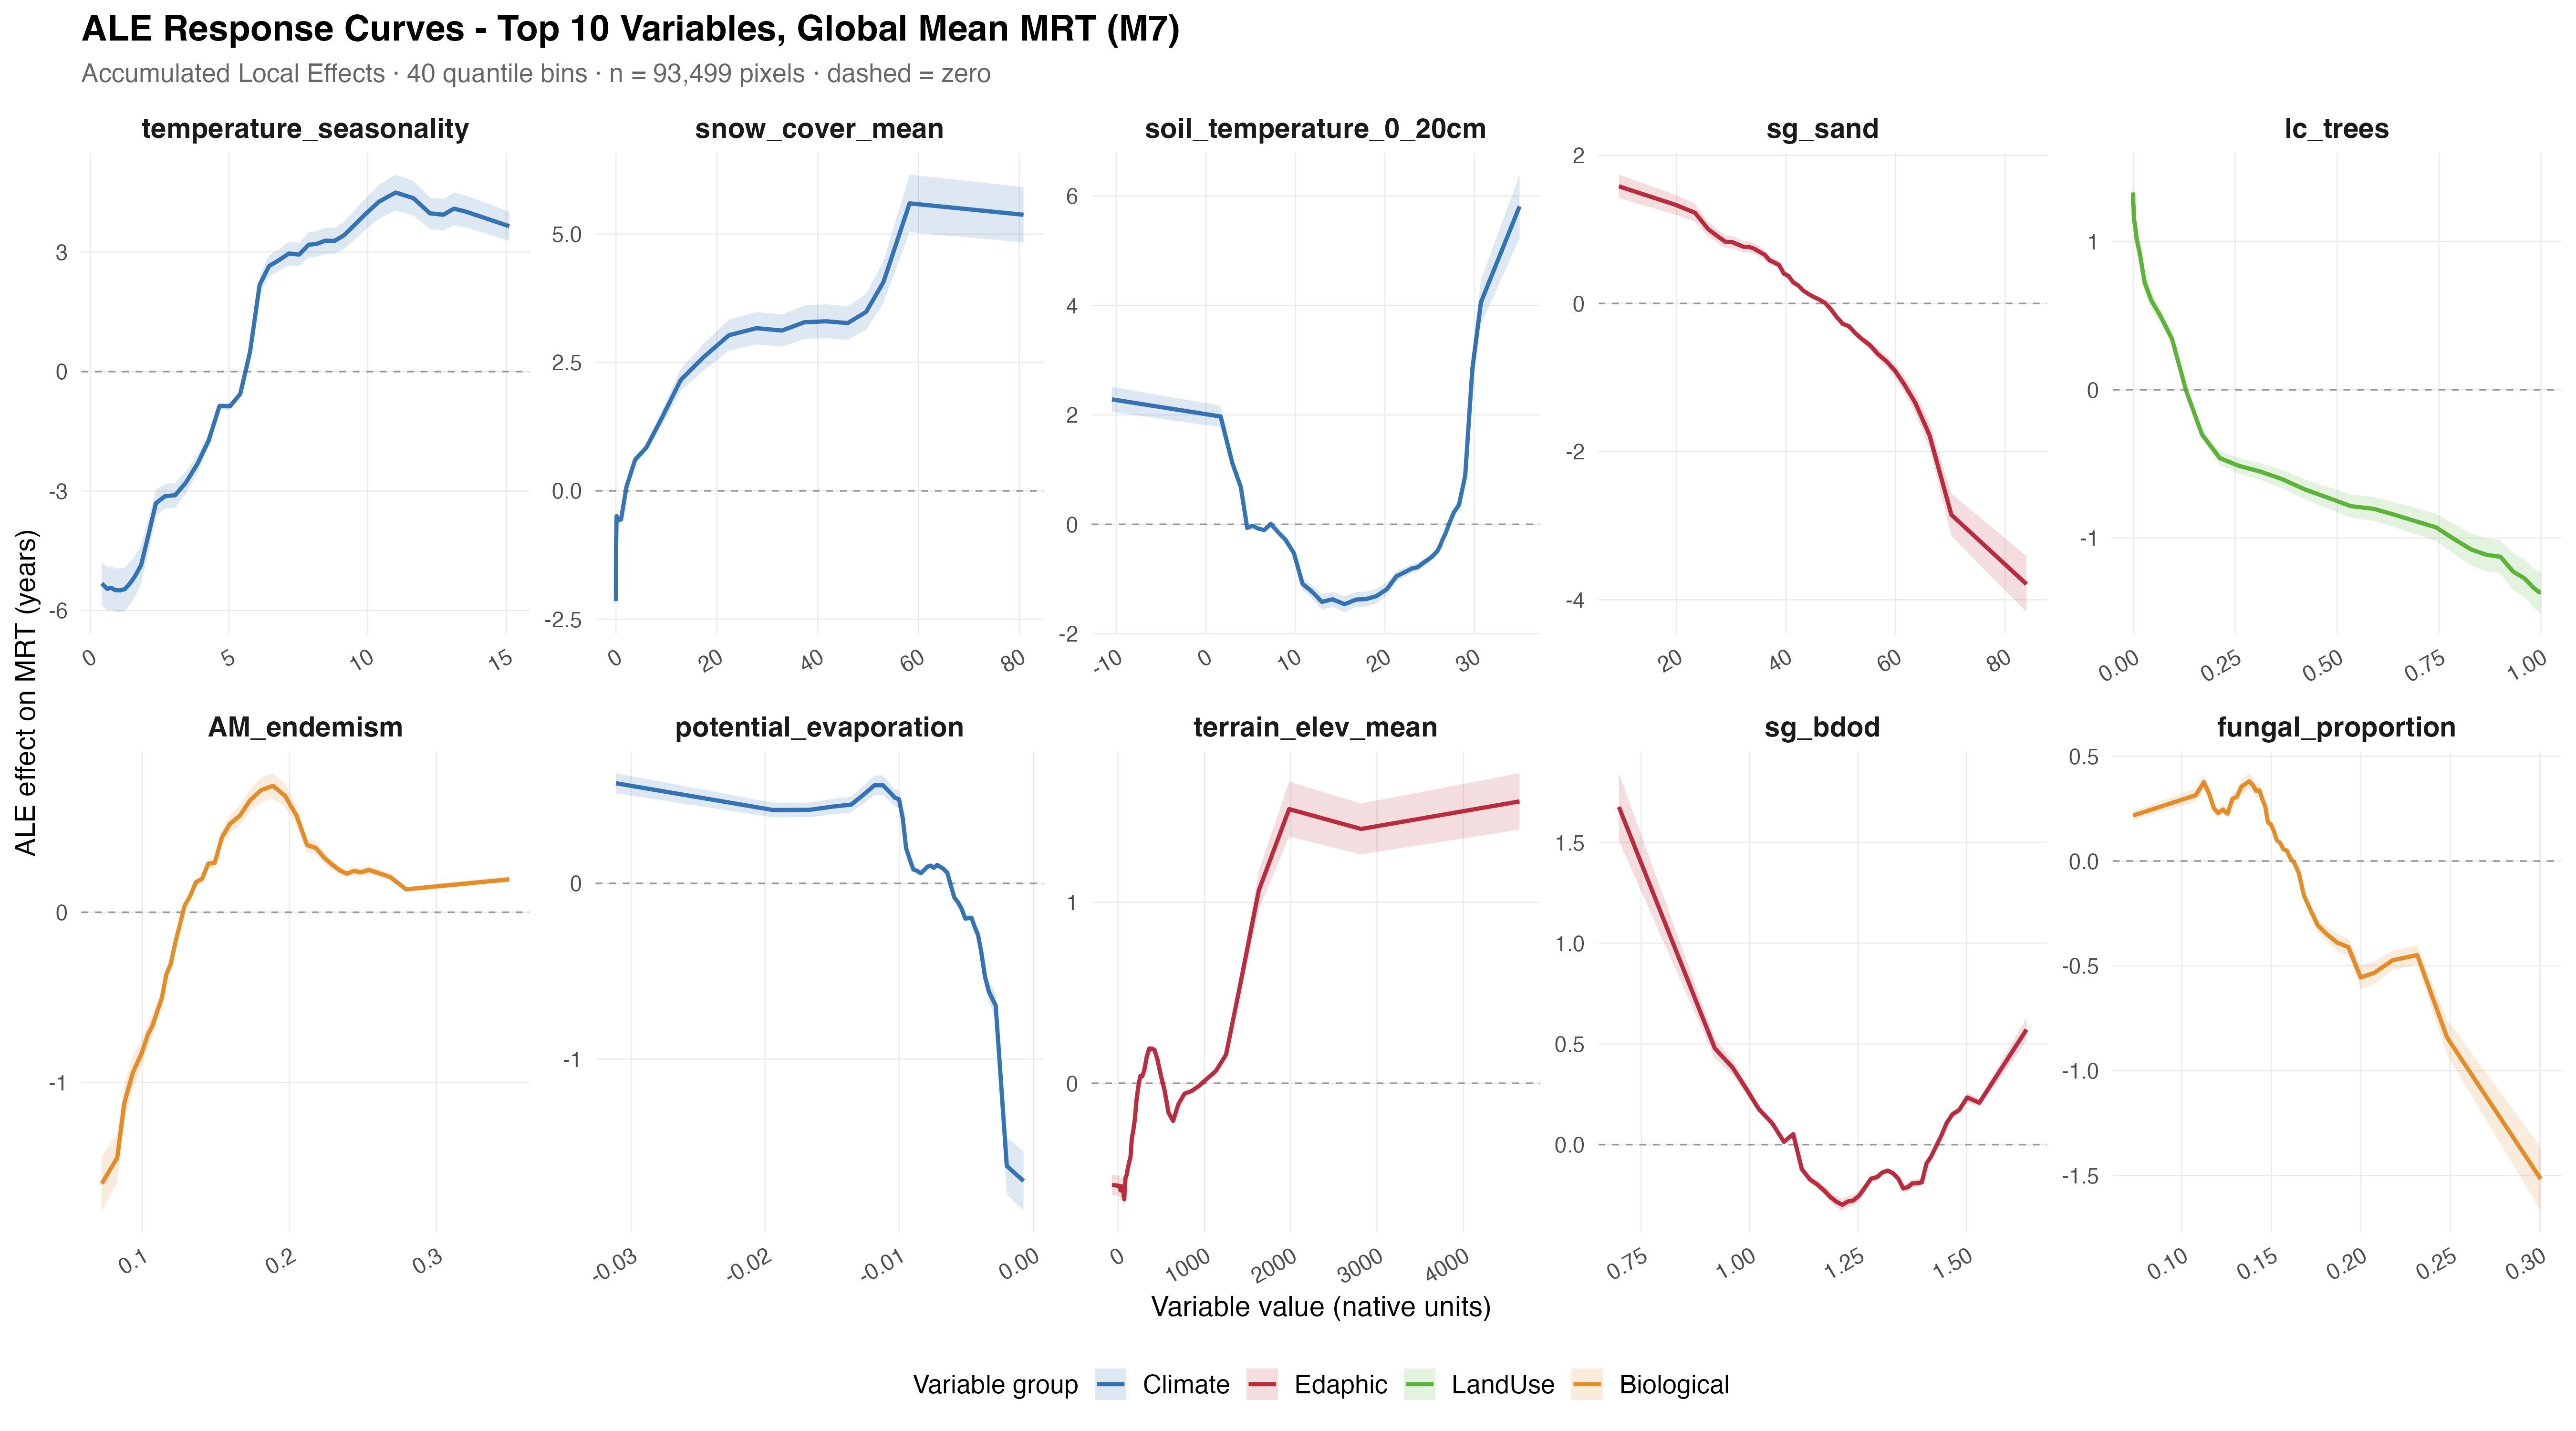
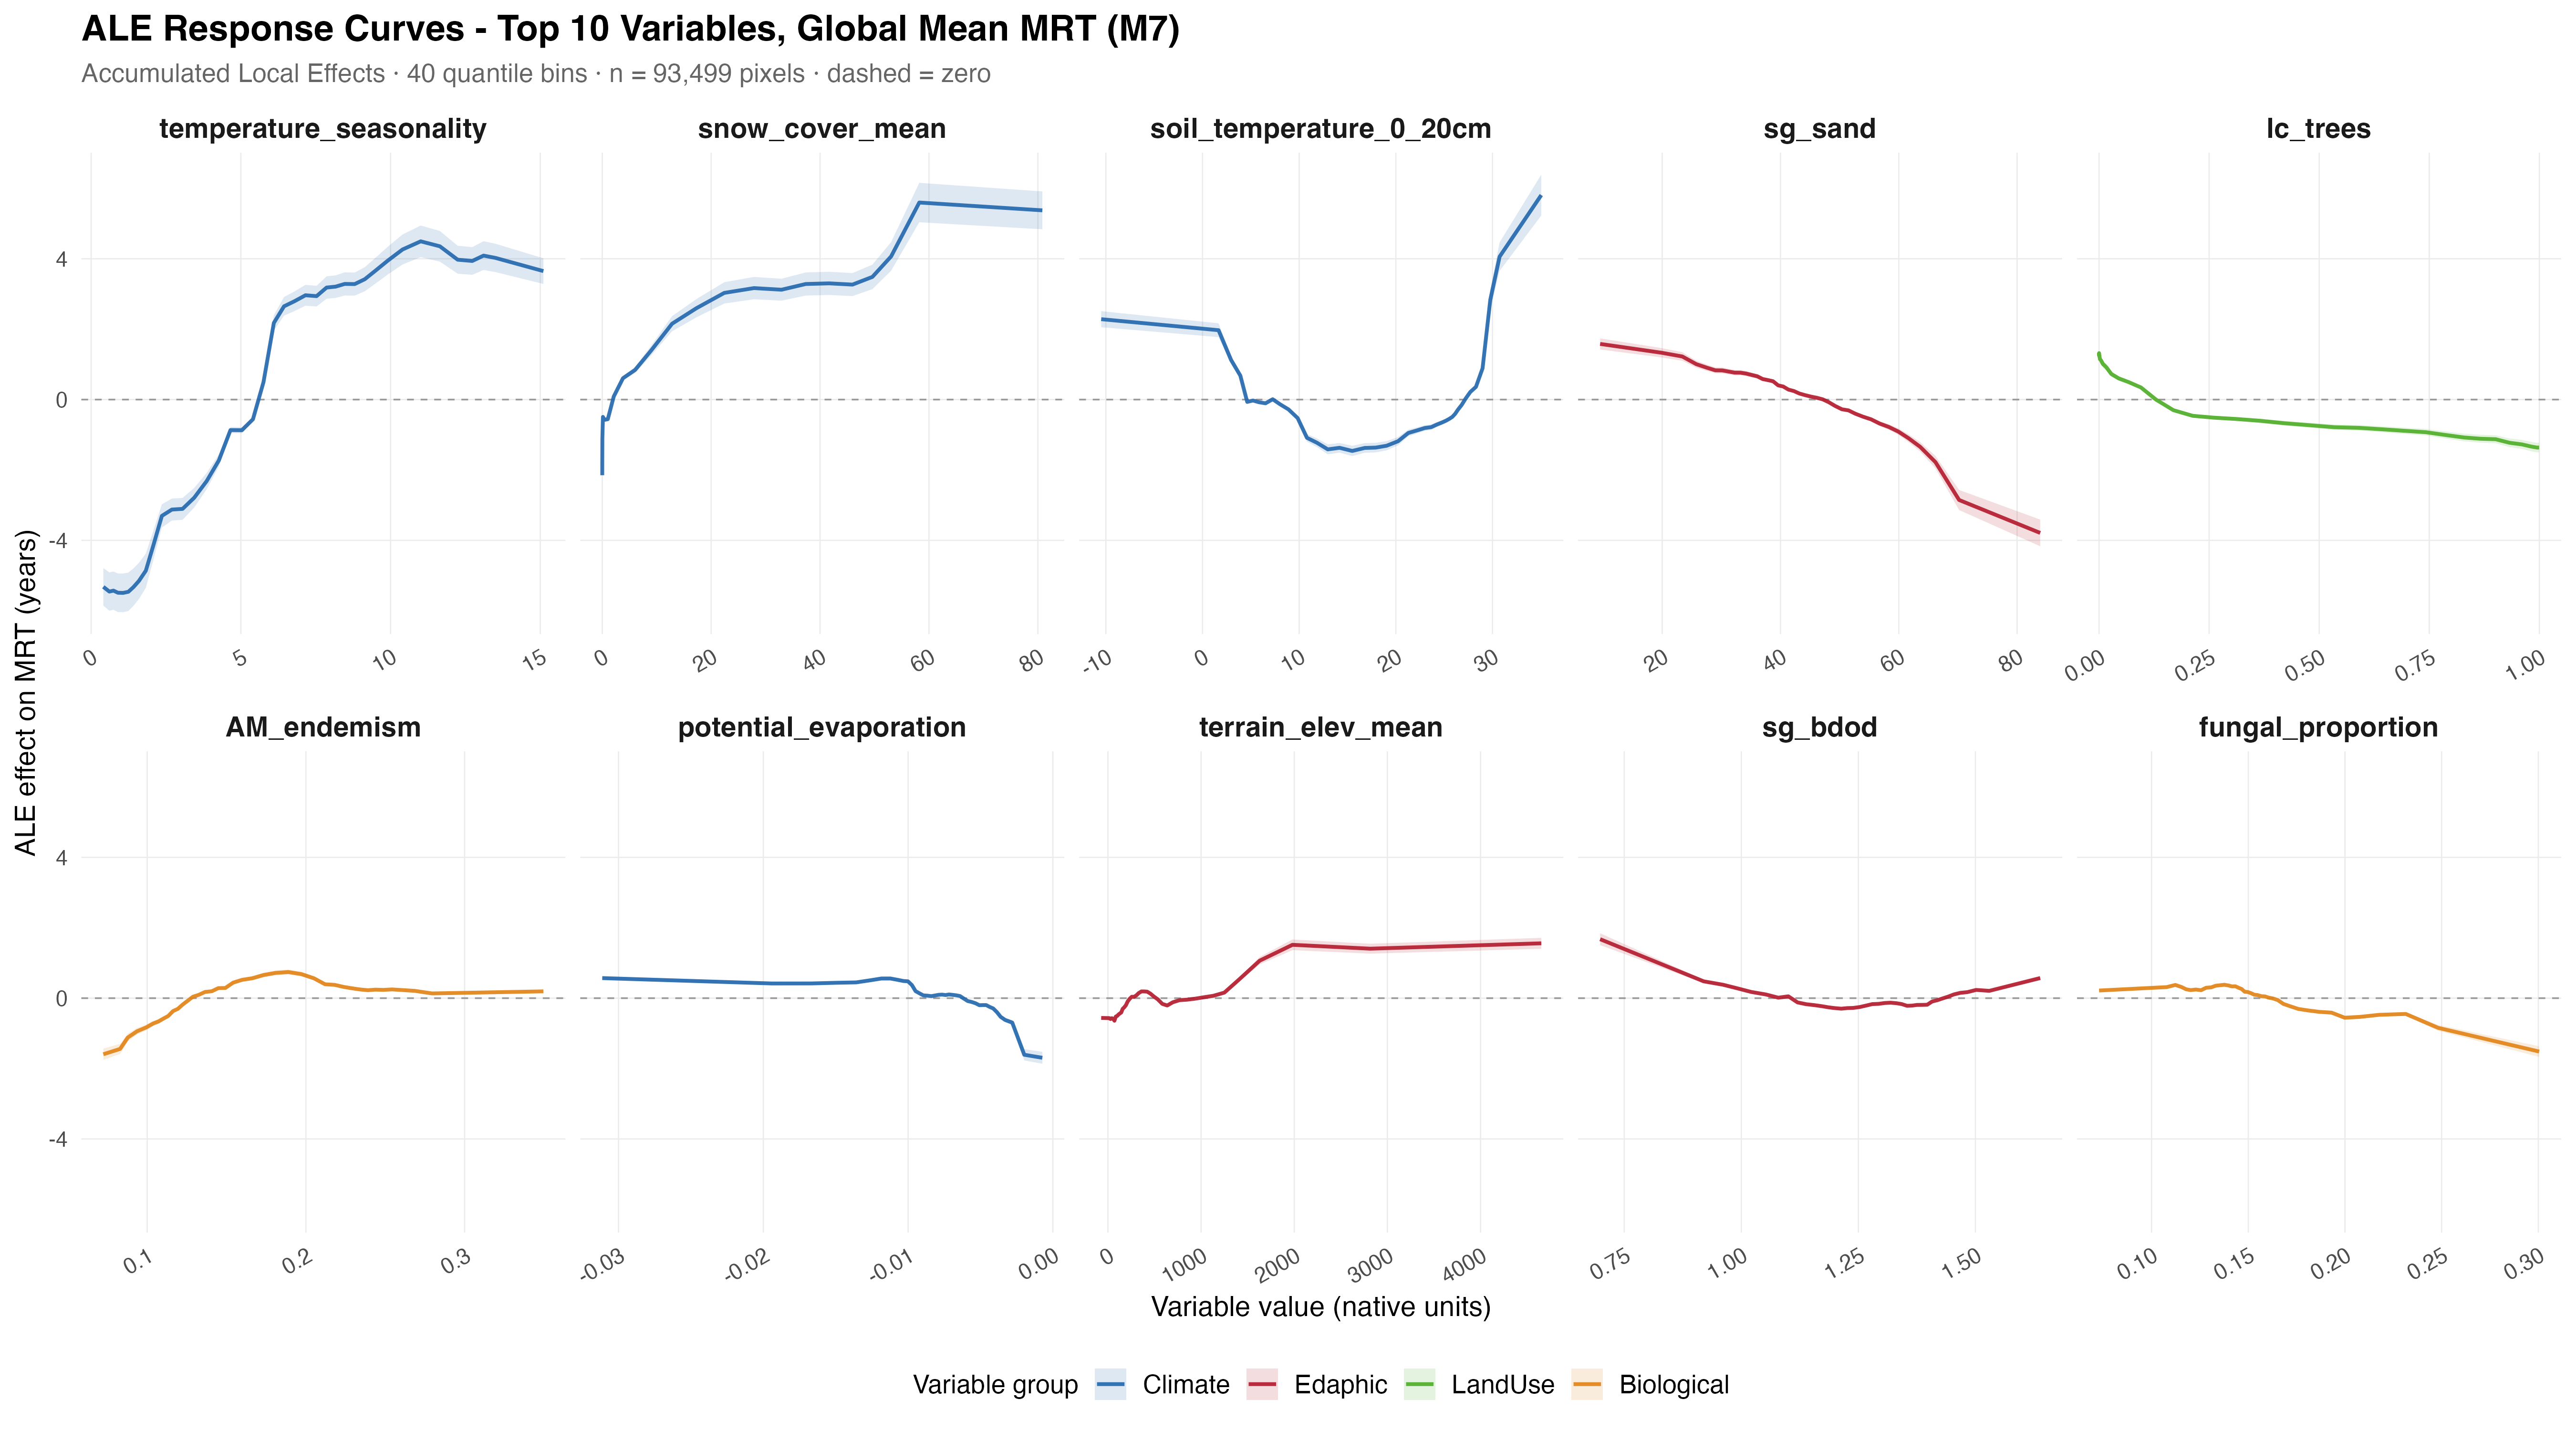
Review round: address text/figure comments (Aleksi, Shoji); integrate Varney 2020
- Abstract reframed to lead with the zonality rediscovery; define edaphic/
  biological inline; observation-based-benchmark clause; litter-quality nod.
- Standardise terminology on transit time (tau); replace stray "MRT"; add
  intro sentence justifying the transit-time definition.
- Moran scatter: per-Koppen within-zone linear fits (+ caption); ALE: shared
  y-axis (scales="free_x") so responsiveness is comparable (+ caption).
- New appendix figure: temperature-tau scatter (Step 22 script, Fig. A5),
  cf. Varney et al. 2020 Fig 3a; apparent Q10 ~ 1.35.
- Integrate Varney et al. 2020 (bib + intro + ESM discussion): our tau-T fit
  (R2=0.06) and Moran's I=0.25 qualify the space-for-time emergent-constraint
  premise; note their respiration-based tau vs our input-based tau.
- Clarity fixes: 16 km range driver, horizon standardisation, zonality-map
  how-to-read, Limitations remaining-variance forward-look.
- Add manuscript/TODO.md tracking deferred data-rework (BNPP input, harvests,
  peatlands), citations, and placeholders.

diff --git a/Global_MRT_code/manuscript/manuscript.tex b/Global_MRT_code/manuscript/manuscript.tex
@@ -55,29 +55,30 @@
 
 \begin{abstract}
 Soil organic carbon (SOC) turnover is commonly modelled as a function of
-climate
-% How about litter quality ? I think that it also plays a role here ? 
-, with the unexplained remainder treated as noise. Yet soils are zonal
-objects,
-%Why they are zonal objects ? Should we open here the role of parent material, etc ? My answer: not so sure, parent material alone is not so much a zonality process (it's one of them) but I get it
-and an emergent property of the soil system (the time carbon
-persists) may share that organisation. Using a global compilation of
-mineral-soil profiles, we estimate steady-state transit times ($\tau$) and ask
-how much of their spatial variation beyond climate is attributable, organised,
-and mappable. On a common, spatially block cross-validated footing, climate
-explains about a third of the predictable variance in $\ln\tau$; an
-order-independent (Shapley) decomposition attributes the rest to edaphic
-(33\,\%), biological (22\,\%), and land-use (10\,\%) context, with climate at
-35\,\%. Edaphic and climatic predictors carry overlapping signals, as
-expected where climate is itself a soil-forming factor, yet the
-beyond-climate residual is spatially organised (Moran's $I=0.25$) rather than
-random. This organisation is led by edaphic factors, with soil biology forming a
-distinct second axis. Marginal-effect analysis reveals ecologically
-interpretable, biome-dependent response shapes. Compared with six CMIP6 Earth
-System Models, our estimated structure is gentler: the models show a
-polar-to-tropical contrast in turnover roughly three times steeper, and disagree among
-themselves by an order of magnitude. We present this as a comparison, and propose the
-zonality of soil-carbon turnover as an interpretive framework for global SOC turnover.
+climate, with the unexplained remainder treated as noise. Yet turnover responds
+to more than climate (litter quality, soil texture and mineralogy, and decomposer
+biology all leave a mark), and soils themselves are organised zonally, their
+forming factors varying in coherent geographic patterns. An emergent property of
+the soil system (the time carbon persists) may therefore share that organisation.
+Using a global compilation of mineral-soil profiles, we estimate steady-state
+transit times ($\tau$) and ask how much of their variation beyond climate is
+attributable, organised, and mappable. On a common, spatially block
+cross-validated footing, climate explains about a third of the predictable
+variance in $\ln\tau$; an order-independent (Shapley) decomposition attributes the
+rest to edaphic context (soil texture, mineralogy and chemistry; 33\,\%),
+biological context (productivity and decomposer community; 22\,\%), and land use
+(10\,\%), with climate at 35\,\%. The beyond-climate residual is not random but
+spatially organised (Moran's $I=0.25$), led by edaphic factors with soil biology
+as a distinct second axis, and marginal-effect analysis resolves it into
+ecologically interpretable, biome-dependent response shapes. Mapping the structure
+recovers a coherent zonal pattern of turnover: a modern, data-intensive analysis
+converging on the long-standing pedological insight that soils, and their emergent
+properties, are zonal. Because this rests on soil observations rather than model
+output, it also offers an observation-based benchmark for Earth System Models:
+against six CMIP6 models our estimated structure is gentler, theirs showing a
+polar-to-tropical contrast in turnover roughly three times steeper and disagreeing
+among themselves by an order of magnitude. We propose the zonality of soil-carbon
+turnover as an interpretive framework for global SOC turnover.
 \end{abstract}
 
 \bigskip
@@ -96,10 +97,19 @@ Earth system models
 Soils hold roughly twice as much carbon as the atmosphere, and the rate at which it
 cycles rather than the stock alone defines the global C balance and the land carbon--climate feedback.
 The relevant quantity is the mean transit time $\tau$, the average time a carbon atom
-spends in the soil \citep{Sierra2017,Sierra2018}. Because the total global stock is so large, even
+spends in the soil from input to loss \citep{Sierra2017,Sierra2018}. We adopt the
+transit-time definition, rather than the several related and often conflated
+residence- or turnover-time measures, because at steady state it is the
+system-level diagnostic of how long carbon persists, and it is the quantity that a
+bulk single-pool inversion of stock over input actually recovers. Because the total global stock is so large, even
 modest shifts in $\tau$ over large areas have a relevant effect on the global carbon balance. What
 controls $\tau$, and how it varies geographically, impacts directly whether soils
-keep buffering anthropogenic emissions or begin to amplify them.
+keep buffering anthropogenic emissions or begin to amplify them. Constraining that
+geographic variation observationally is an active goal: recent work exploits the
+present-day spatial relationship between $\tau$ and temperature as an emergent
+constraint on the warming response of soil carbon \citep{Varney2020}. Such
+approaches rest on the premise that the spatial $\tau$ gradient is predominantly
+thermal, a premise our beyond-climate analysis lets us examine directly.
 
 \paragraph{The classical paradigm: chemistry and constants.}
 Since the foundational models of the 1970s--1990s
@@ -209,7 +219,8 @@ estimate and drop out at the mean-transit-time step
 as having missing input data in Sect.~\ref{sec:results_data}.
 
 Horizon-level data were standardised to a 0--20~cm depth interval by
-depth-weighted averaging. For each unique soil profile (identified by
+depth-weighted averaging, applied to each profile individually rather than
+stratified by pedological class. For each unique soil profile (identified by
 site~ID), we computed the overlap of each recorded horizon with the
 0--20~cm target interval and calculated a thickness-weighted mean for
 seven soil variables: organic carbon, total nitrogen, pH~(H$_2$O), clay
@@ -225,7 +236,7 @@ were carried forward as the most common value across horizons.
 After depth standardisation, the dataset contained 381\,541 profiles from
 47~source databases spanning 78\textdegree S to 78\textdegree N. We applied
 a series of quality-control filters to remove records likely to introduce
-systematic bias into the MRT calculation. First, 83\,206 profiles
+systematic bias into the transit-time calculation. First, 83\,206 profiles
 (21.8\,\%) reported OC~$=$~0~g\,kg$^{-1}$, which in these source
 databases typically encodes missing data rather than a true measurement; these values were set
 to \texttt{NA} and the affected profiles were removed when no valid OC
@@ -278,7 +289,10 @@ converting the product $(\text{g\,kg}^{-1})(\text{g\,cm}^{-3})(\text{cm})$
 into a mass per unit area, g\,C\,m$^{-2}$.
 
 Carbon input to soil was estimated as the belowground fraction of net
-primary productivity (BNPP). We used MODIS MOD17A3 annual NPP
+primary productivity (BNPP). 
+%Aleksi: For me this raises questions. How about branches. In most cases those are left on site, unless used for bioenergy. Are we now ignoring aboveground litter fraction ? And we assume that all NPP belowground is litter ? 
+(maybe this is okay assumption?)
+We used MODIS MOD17A3 annual NPP
 \citep[2001--2020;][]{Running2015} extracted at each profile location,
 applying the MODIS scale factor
 ($\text{NPP}_\text{true} = \text{NPP}_\text{raw} / 10$;
@@ -309,6 +323,9 @@ Table~\ref{tab:allocation}), and $\tau$ was computed as the ratio of SOC stock t
 $\tau < 1$~year or $> 1000$~years, or with missing, negative, or
 infinite values were excluded. The upper and lower 1\% tails of the
 remaining distribution were removed prior to model fitting.
+
+ %Aleksi: ow about harvests ? Most of the growth of forests is harvested and taken to mills in countries like Finland & Sweden: We would need layer of managed forests, like proxy based on this:  https://earthenginepartners.appspot.com/science-2013-global-forest And. then estimates of the fraction of NPP that is annually taken out of the system
+% Aleksi: we could have biome spoecific values here if needed
 
 % -----------------------------------------------------------------------------
 \subsection{Predictor variables}
@@ -342,7 +359,7 @@ cells it covers (a count of classes, not an average, since the variable
 is categorical).
 
 \subsubsection{Edaphic}
-
+% Aleksi: How about excluding peatlands? I think that it would be important ?  At least from the analysis, maybe maps can be as they are. But if we have obs from peatlands, those may distort our interpration ? (there are some global peat maps)
 Soil properties were obtained from SoilGrids 250\,m v2.0
 \citep{Poggio2021}, depth-weighted to 0--20~cm: clay content, sand
 content, bulk density, coarse fragment volume, pH~(H$_2$O), cation
@@ -704,13 +721,13 @@ Observation dates ranged from 1900 to~2024,
 with the majority (79\,\%) falling between~1980 and~2020. Of the
 198\,382 profiles, 38\,292 (19.3\,\%) had measured bulk density, 133\,557
 (67.3\,\%) received RF-predicted values, and 21\,830 (11.0\,\%) were
-gap-filled with SoilGrids. The steady-state MRT calculation
+gap-filled with SoilGrids. The steady-state transit-time calculation
 (Sect.~\ref{sec:mtt_calc}) produced valid estimates for 185\,601 profiles
 (93.6\,\%), with the remainder flagged as infinite ($n = 719$), missing
 input data ($n = 9\,486$), or outside the plausible range
 ($<$~1~or~$>$~1\,000~yr; $n = 2\,576$). For model fitting, we removed
-the 1st and 99th MRT percentiles, retaining 181\,887 profiles
-(MRT range 1.9--143.9~yr). Spatial coverage spanned
+the 1st and 99th $\tau$ percentiles, retaining 181\,887 profiles
+($\tau$ range 1.9--143.9~yr). Spatial coverage spanned
 78\textdegree S--78\textdegree N and 172\textdegree W--176\textdegree E
 (Fig.~\ref{fig:sampling}).
 
@@ -768,8 +785,15 @@ random arrangement would produce. Most of the residual's point-to-point variance
 is nonetheless short-range and unstructured. Its empirical semivariogram (Sect.~\ref{sec:mapscale}; Fig.~\ref{fig:noisefloor}) has a high nugget (about
 56\,\% of the total sill is already present at the shortest separations, i.e.\
 variance that the spatial coordinates do not resolve) and a short correlation
-range ($\approx16$~km, the lag beyond which the semivariance stops rising), so
-little point-level structure survives past a few tens of kilometres. The
+range ($\approx16$~km, the lag beyond which the semivariance stops rising),
+so little point-level structure survives past a few tens of kilometres. This
+range should not be read as intrinsic soil autocorrelation, which for many soil
+properties operates at metres to tens of metres; it is instead inherited from the
+gridded predictor fields that drive the model. Our covariates (MODIS-derived NPP,
+climate reanalysis, and the SoilGrids products) are themselves smooth at scales of
+hundreds of metres to kilometres, so the residual can only express structure that
+those inputs resolve, and the $\approx16$~km range reflects the effective
+resolution of the predictor stack rather than a property of the soils sampled. The
 organised signal is therefore a meso-scale property: the agreement between the
 mapped and the observed residual roughly doubles from the noisy native pixel
 ($R^2\approx0.11$) to $\approx0.22$ at 1--2\textdegree{} and then plateaus
@@ -778,16 +802,17 @@ map it below.
 
 \begin{figure}[H]\centering
 \includegraphics[width=0.6\textwidth]{../plots/step_13c_commonality/13e_moran_scatter.png}
-\caption{\textbf{Spatial organisation of the beyond-climate residual.} How to read it: each point is a 2\textdegree{} block; the horizontal axis is that block's mean beyond-climate residual (observed minus climate-only prediction), and the vertical axis is the average residual of its neighbouring blocks. A positive slope means blocks resemble their neighbours more than a random arrangement would give (spatial clustering) and the slope is Moran's $I=0.25$ ($p\ll0.001$). A flat, shapeless cloud would indicate no spatial organisation. Points are coloured by each block's modal coarse K\"oppen zone (A tropical, B arid, C temperate, D cold, E polar); the beyond-climate autocorrelation is broadly distributed across zones rather than confined to one.}
+\caption{\textbf{Spatial organisation of the beyond-climate residual.}
+How to read it: each point is a 2\textdegree{} block; the horizontal axis is that block's mean beyond-climate residual (observed minus climate-only prediction), and the vertical axis is the average residual of its neighbouring blocks. A positive slope means blocks resemble their neighbours more than a random arrangement would give (spatial clustering) and the slope is Moran's $I=0.25$ ($p\ll0.001$). A flat, shapeless cloud would indicate no spatial organisation. Points are coloured by each block's modal coarse K\"oppen zone (A tropical, B arid, C temperate, D cold, E polar), and the thin coloured lines are within-zone linear fits. The beyond-climate autocorrelation is present across zones rather than confined to one, but not uniformly: the within-zone slope is steepest in tropical and arid blocks, shallower in temperate and cold ones, and essentially flat in the (few) polar blocks.}
 \label{fig:moran}
 \end{figure}
 
-\subsection{Global distribution of predicted MRT}
+\subsection{Global distribution of predicted $\tau$}
 \label{sec:results_map}
 % -----------------------------------------------------------------------------
 
 The full-model (M7) prediction, generated at 0.1\textdegree{} resolution,
-covers ${\sim}$942\,000 land pixels and yields a global mean MRT of 23.3~yr
+covers ${\sim}$942\,000 land pixels and yields a global mean $\tau$ of 23.3~yr
 (median 22.4~yr; Fig.~\ref{fig:global_mrt}). Predicted values span
 3.7--72.0~yr across the global domain. A first-order latitudinal gradient is visible in
 the predicted-$\tau$ map (Fig.~\ref{fig:global_mrt}), consistent with temperature
@@ -832,17 +857,17 @@ Consistent with its near-zero unique variance, land use produces the largest loc
 
 \begin{figure}[H]\centering
 \includegraphics[width=0.82\textwidth]{../plots/step_15b_zonality/zonality_map_dual_symmetric.png}
-\caption{\PH{[draft figure --- to refine together]}~ \textbf{Zonality map (symmetric).} (a)~Abiotic and (b)~biological modulation, each relative to climate (log-ratio of model predictions), at meso (2\textdegree) scale. Red/green~=~longer turnover, blue/purple~=~shorter.}
+\caption{\PH{[draft figure --- to refine together]}~ \textbf{Zonality map (symmetric).} (a)~Abiotic and (b)~biological modulation, each relative to climate, at meso (2\textdegree) scale. How to read it: each panel maps how much longer or shorter turnover is than climate alone would predict, expressed as the log-ratio of the full-model prediction to the climate-only prediction in each 2\textdegree{} block. Values near zero mean climate already accounts for the local turnover; departures mark where edaphic (a) or biological (b) context lengthens or shortens turnover beyond what climate explains. Red/green~=~longer turnover, blue/purple~=~shorter.}
 \label{fig:zonality}
 \end{figure}
 
 % -----------------------------------------------------------------------------
-\subsection{Marginal effects on MRT}
+\subsection{Marginal effects on $\tau$}
 \label{sec:results_ale}
 % -----------------------------------------------------------------------------
 
 Accumulated Local Effects (ALE) analysis quantified the marginal
-response of MRT to each continuous predictor across its observed range
+response of $\tau$ to each continuous predictor across its observed range
 (Fig.~\ref{fig:ale_top10}). The three largest ALE effect ranges again
 belonged to climate variables:temperature seasonality (10.0~yr),
 snow cover (7.7~yr), and soil temperature (7.3~yr). Among non-climate
@@ -855,7 +880,15 @@ top ten.
 
 \begin{figure}[H]\centering
 \includegraphics[width=1.0\textwidth]{../plots/step_18_sensitivity/18D_ALE_top10_MRT.png}
-\caption{\textbf{ALE response curves} for the ten most responsive predictors of $\tau$ (full model, M7).}
+\caption{\textbf{ALE response curves} for the ten most responsive predictors of
+$\tau$ (full model, M7). Panels are ordered by decreasing ALE range (the vertical
+span of each curve, i.e.\ how much $\tau$ shifts across the predictor's observed
+range), so the most influential predictors appear first; the leaders are climatic
+(temperature seasonality, snow cover, and soil temperature), with sand the
+strongest edaphic response. The $y$-axis is shared across panels, so the vertical span
+of each curve is directly comparable: a flatter curve means a predictor moves
+$\tau$ less. The $x$-axis is in each predictor's native units and therefore
+differs between panels.}
 \label{fig:ale_top10}
 \end{figure}
 
@@ -866,9 +899,9 @@ climbs sharply between roughly 50 and 60\,\% snow-cover fraction), and soil
 temperature is U-shaped (a shape we revisit in the Discussion, where the
 high-temperature upturn may partly reflect drier conditions in the hottest soils);
 sand declines monotonically
-(clay-rich to sand-rich shortens MRT by nearly 5~yr), bulk density is threshold-like
+(clay-rich to sand-rich shortens $\tau$ by nearly 5~yr), bulk density is threshold-like
 below $\sim$1~g\,cm$^{-3}$, pH is a rising inverted-U peaking near 7.5--8, fungal
-proportion drops MRT above a $\sim$0.2 biomass fraction, and AM endemism is inverted-U.
+proportion drops $\tau$ above a $\sim$0.2 biomass fraction, and AM endemism is inverted-U.
 The mechanistic reading of these shapes is taken up in the Discussion.
 
 Resolved by latitude band (Fig.~\ref{fig:ale_latband}), the
@@ -1051,7 +1084,22 @@ structure (which our analysis associates with edaphic, biological, and land-use
 context) as one place where soil-carbon representations might be examined, with the
 candidate functional shapes suggested here as a possible starting point.
 
-
+Our finding also speaks to a prominent use of the spatial $\tau$ field.
+\citet{Varney2020} constrain the warming sensitivity of soil-carbon turnover by
+treating the present-day spatial relationship between $\tau$ and temperature as a
+proxy for its temporal response, an emergent constraint that implies an effective
+$Q_{10}\approx2.5$ and halves the CMIP uncertainty in soil-carbon loss under
+2\textdegree{}C of warming. That approach presumes the spatial $\tau$--temperature
+gradient is largely thermal. Our decomposition qualifies this reading: temperature
+alone explains little of the point-level variation in $\tau$
+(Fig.~\ref{fig:tempscatter}, $R^2=0.06$), and the beyond-climate residual is
+spatially organised rather than random (Moran's $I=0.25$), carrying edaphic and
+biological structure that a $\tau$--temperature curve would absorb into an apparent
+thermal sensitivity. Space-for-time constraints on $\tau$ might therefore be
+sharpened by first accounting for this non-thermal zonal structure. We note also
+that \citeauthor{Varney2020} define turnover through respiration
+($\tau=C_s/R_h$) rather than through carbon input as we do, so the two estimates are
+related but not identical.
 
 \paragraph{Limitations.}
 The steady-state assumption is a simplification; we rely on non-equilibrium errors
@@ -1063,8 +1111,18 @@ Predictor correlations among climate, edaphic, and land-use variables are inhere
 the observational design and cannot be fully disentangled without experimental or
 temporal replication. Finally, depth and pool-definition differences complicate the
 CMIP6 comparison, which is why we compare relative structure rather than absolute
-magnitude. These motivate time-resolved transit times, manipulative experiments, and
-targeted sampling in undersampled regions.
+magnitude. A large fraction of the point-to-point variance in $\tau$ also stays
+unpredictable at this resolution (Sect.~\ref{sec:mapscale}; Fig.~\ref{fig:noisefloor}):
+the beyond-climate signal we recover is a meso-scale, spatially organised component,
+not a pixel-level reconstruction. Part of that residual is measurement and
+steady-state noise, but part likely reflects fine-scale controls our global
+predictors cannot resolve, chiefly the quantity and quality of carbon inputs.
+Our input term is a belowground-NPP proxy that omits aboveground litter, litter
+chemistry, and management removals (harvest, residue export), and these are plausibly
+first-order at the local scale; predictors closer to the actual input flux, together
+with denser and repeated sampling, would be the most direct route to reducing the
+unexplained variance. These motivate time-resolved transit times, manipulative
+experiments, and targeted sampling in undersampled regions.
 
 \paragraph{Implications: a biome-aware, tractable parameterisation.}
 The structure we describe need not be operationalised by adding mechanistic
@@ -1233,6 +1291,12 @@ The authors declare no competing interests.
 \includegraphics[width=0.95\textwidth]{../plots/appendix/scale_noisefloor.png}
 \caption{\textbf{Scale spectrum and noise floor.} (a)~Residual variogram (nugget/sill~$\approx$0.56, range~$\approx$16~km); (b)~coarse organisation grows with block size.}
 \label{fig:noisefloor}
+\end{figure}
+
+\begin{figure}[H]\centering
+\includegraphics[width=0.8\textwidth]{../plots/appendix/22_temperature_tau_scatter.png}
+\caption{\textbf{Transit time versus temperature.} Observed $\tau$ (log scale) against mean annual air temperature for the QC-passed profiles, coloured by coarse K\"oppen zone, with an overall loess trend (black). Transit time declines with warming, from ${\sim}35$~yr in the coldest soils to a minimum of ${\sim}13$~yr near 22--23\textdegree{}C, corresponding to an apparent $Q_{10}$ of bulk turnover of about 1.35 (log-linear fit, $R^2=0.06$). The upturn at the warmest end is consistent with the U-shaped soil-temperature response in Fig.~\ref{fig:ale_top10} (hot, dry soils turning over more slowly). This single-predictor view is shown for comparability with earlier compilations \citep[e.g.][]{Varney2020}; the weak fit ($R^2=0.06$) underscores that temperature alone explains little of the point-level variation in $\tau$.}
+\label{fig:tempscatter}
 \end{figure}
 
 \begin{figure}[H]\centering

diff --git a/Global_MRT_code/manuscript/TODO.md b/Global_MRT_code/manuscript/TODO.md
@@ -1,0 +1,103 @@
+# Manuscript TODO
+
+Last updated: 2026-07-03. Covers everything outstanding **except** Bucket 2
+(reviewer figure/caption tweaks), which is being handled this session. Update as
+items close.
+
+---
+
+## 1. Reviewer comments needing data rework (Bucket 3)
+
+**To tackle next week (week of 2026-07-06).**
+
+These came up independently from more than one co-author, so they are not optional.
+
+**Framing (from 2026-07-03 discussion).** Steady-state tau can be written from the
+input side (tau = Cs/input, what we do, input ~ BNPP) or the output side
+(tau = Cs/Rh, respiration, what Varney et al. 2020 do); same quantity, different
+observable, different error structure. Useful context for the limitation, but it
+positions the choice rather than resolving the critique. Key point: the paper's
+claim is about *relative/spatial* structure (zonality), so what matters is whether
+an input error is spatially smooth (mostly rescales magnitude, fairly harmless) or
+spatially structured (can masquerade as zonality). On that test the three comments
+are NOT equal weight:
+  - Aboveground litter + litter quality -> largely magnitude / steady-state
+    caveats; probably a careful paragraph, not a re-run.
+  - **Harvest removals -> the one with teeth**: concentrated in managed
+    boreal/temperate forests, so it is spatially organised and overlaps the
+    beyond-climate signal. This likely warrants an actual managed-forest
+    sensitivity test, not just prose. (Open question to settle: do the
+    literature BNPP fractions themselves carry enough biome-structured error to
+    matter even for the "smooth" cases?)
+
+- [ ] **Carbon input = belowground NPP only.** Aleksi (twice) and Shoji both
+  question using the belowground fraction of NPP as the soil input term. Open
+  points: aboveground litter is ignored; litter *quality* / chemistry is not
+  represented; the implicit assumption that all belowground NPP becomes litter.
+  Action: write a defensible justification paragraph in Methods, and/or revise
+  the input term. (manuscript.tex, inline comment near BNPP definition.)
+- [ ] **Harvest removals.** In managed forests (e.g. Finland, Sweden) a large
+  fraction of NPP is exported to mills and never enters the soil. Aleksi suggests
+  a managed-forest layer (Hansen Global Forest Change,
+  https://earthenginepartners.appspot.com/science-2013-global-forest) and a
+  fraction-of-NPP-removed term, possibly biome-specific. Requires new input layer
+  and a pipeline re-run.
+- [ ] **Peatland exclusion.** Peat observations may distort interpretation.
+  Filter peat sites from the training data (global peat maps exist); the maps
+  themselves can stay as is. Requires re-running the pipeline on filtered obs.
+
+## 2. Manuscript placeholders to fill
+
+- [ ] **Conclusions section** is a stub (four bullet drafts exist) and needs to
+  be written into prose.
+- [ ] **Zonality map (Fig.)** flagged "draft figure --- to refine together";
+  finalise design.
+- [ ] **Authors / affiliations:** author list slot 3, affiliations 2 and 3.
+- [ ] **Data / code availability DOIs** and repository link.
+- [ ] **Acknowledgements** and **Author contributions (CRediT)**.
+- [ ] **Figure in-panel labels still say "MRT".** After standardising the text on
+  transit time (tau), figure titles/axes baked into the PNGs are now inconsistent
+  (e.g. step_18 ALE panels: "Global Mean MRT", "ALE effect on MRT (years)"; likely
+  the map figures too). Sweep the plotting scripts' labels to transit time / tau
+  and regenerate. (Deferred to avoid repeated heavy re-runs; batch with the next
+  pipeline pass.)
+
+## 3. Missing citations (\PH{[cite: ...]})
+
+Grouped by location:
+
+- [ ] Intro, classical models: Jenkinson; Parton/CENTURY; RothC lineage.
+- [ ] Intro, ESM inheritance: Todd-Brown 2013; Wieder 2013.
+- [ ] Intro, persistence-as-ecosystem-property: Kleber 2007/2021; Lehmann &
+  Kleber 2015; Kallenbach 2016; Cotrufo (MEMS); Averill 2014.
+- [ ] Discussion, edaphic mechanisms: Six 2002; Hassink 1997; Rasmussen 2018;
+  Kleber 2007.
+- [ ] Discussion, pH / microbial: Rousk 2010; Malik 2018; Fierer 2006.
+- [ ] Discussion, geochemical (Ca-OM): Rowley 2018; Rasmussen 2018; Rothe 2019.
+- [ ] Discussion, mycorrhizal / high-latitude: Averill 2014; Clemmensen 2013;
+  Tedersoo 2014; Steidinger 2019.
+
+## 4. Decisions / notes
+
+- [ ] **Title.** Body now standardised on mean transit time (tau); title still
+  reads "mean residence time." Lorenzo is fine with this for now; revisit only if
+  a reviewer flags the mismatch.
+
+---
+
+### Addressed this session (for reference)
+- Abstract reframed to lead with the zonality rediscovery; edaphic/biological
+  defined inline; litter-quality nod; observation-based-benchmark clause.
+- Terminology standardised on transit time tau; the 10 stray "MRT" replaced;
+  intro sentence added justifying transit time (answers Shoji).
+- Zonality-map caption "how to read it"; horizon-standardisation clarification;
+  Limitations forward-look on unpredictable variance.
+- Bucket 2 (complete): Moran per-Koppen fits + caption; ALE shared y-axis +
+  caption; 16 km driver sentence; temperature-tau appendix scatter (new Step 22
+  script, Fig. A5, cf. Varney et al. 2020 Fig 3a; apparent Q10 ~ 1.35).
+- Varney et al. 2020 (spatial emergent constraint, tau = Cs/Rh, effective
+  Q10 ~ 2.5) integrated: bib entry added; cited in intro (sets up the
+  "is the spatial tau-T gradient really thermal?" question), in the ESM
+  discussion (our R2=0.06 tau-T fit + Moran's I=0.25 qualify their space-for-time
+  premise; note their respiration-based tau vs our input-based tau), and the
+  Fig. A5 caption.